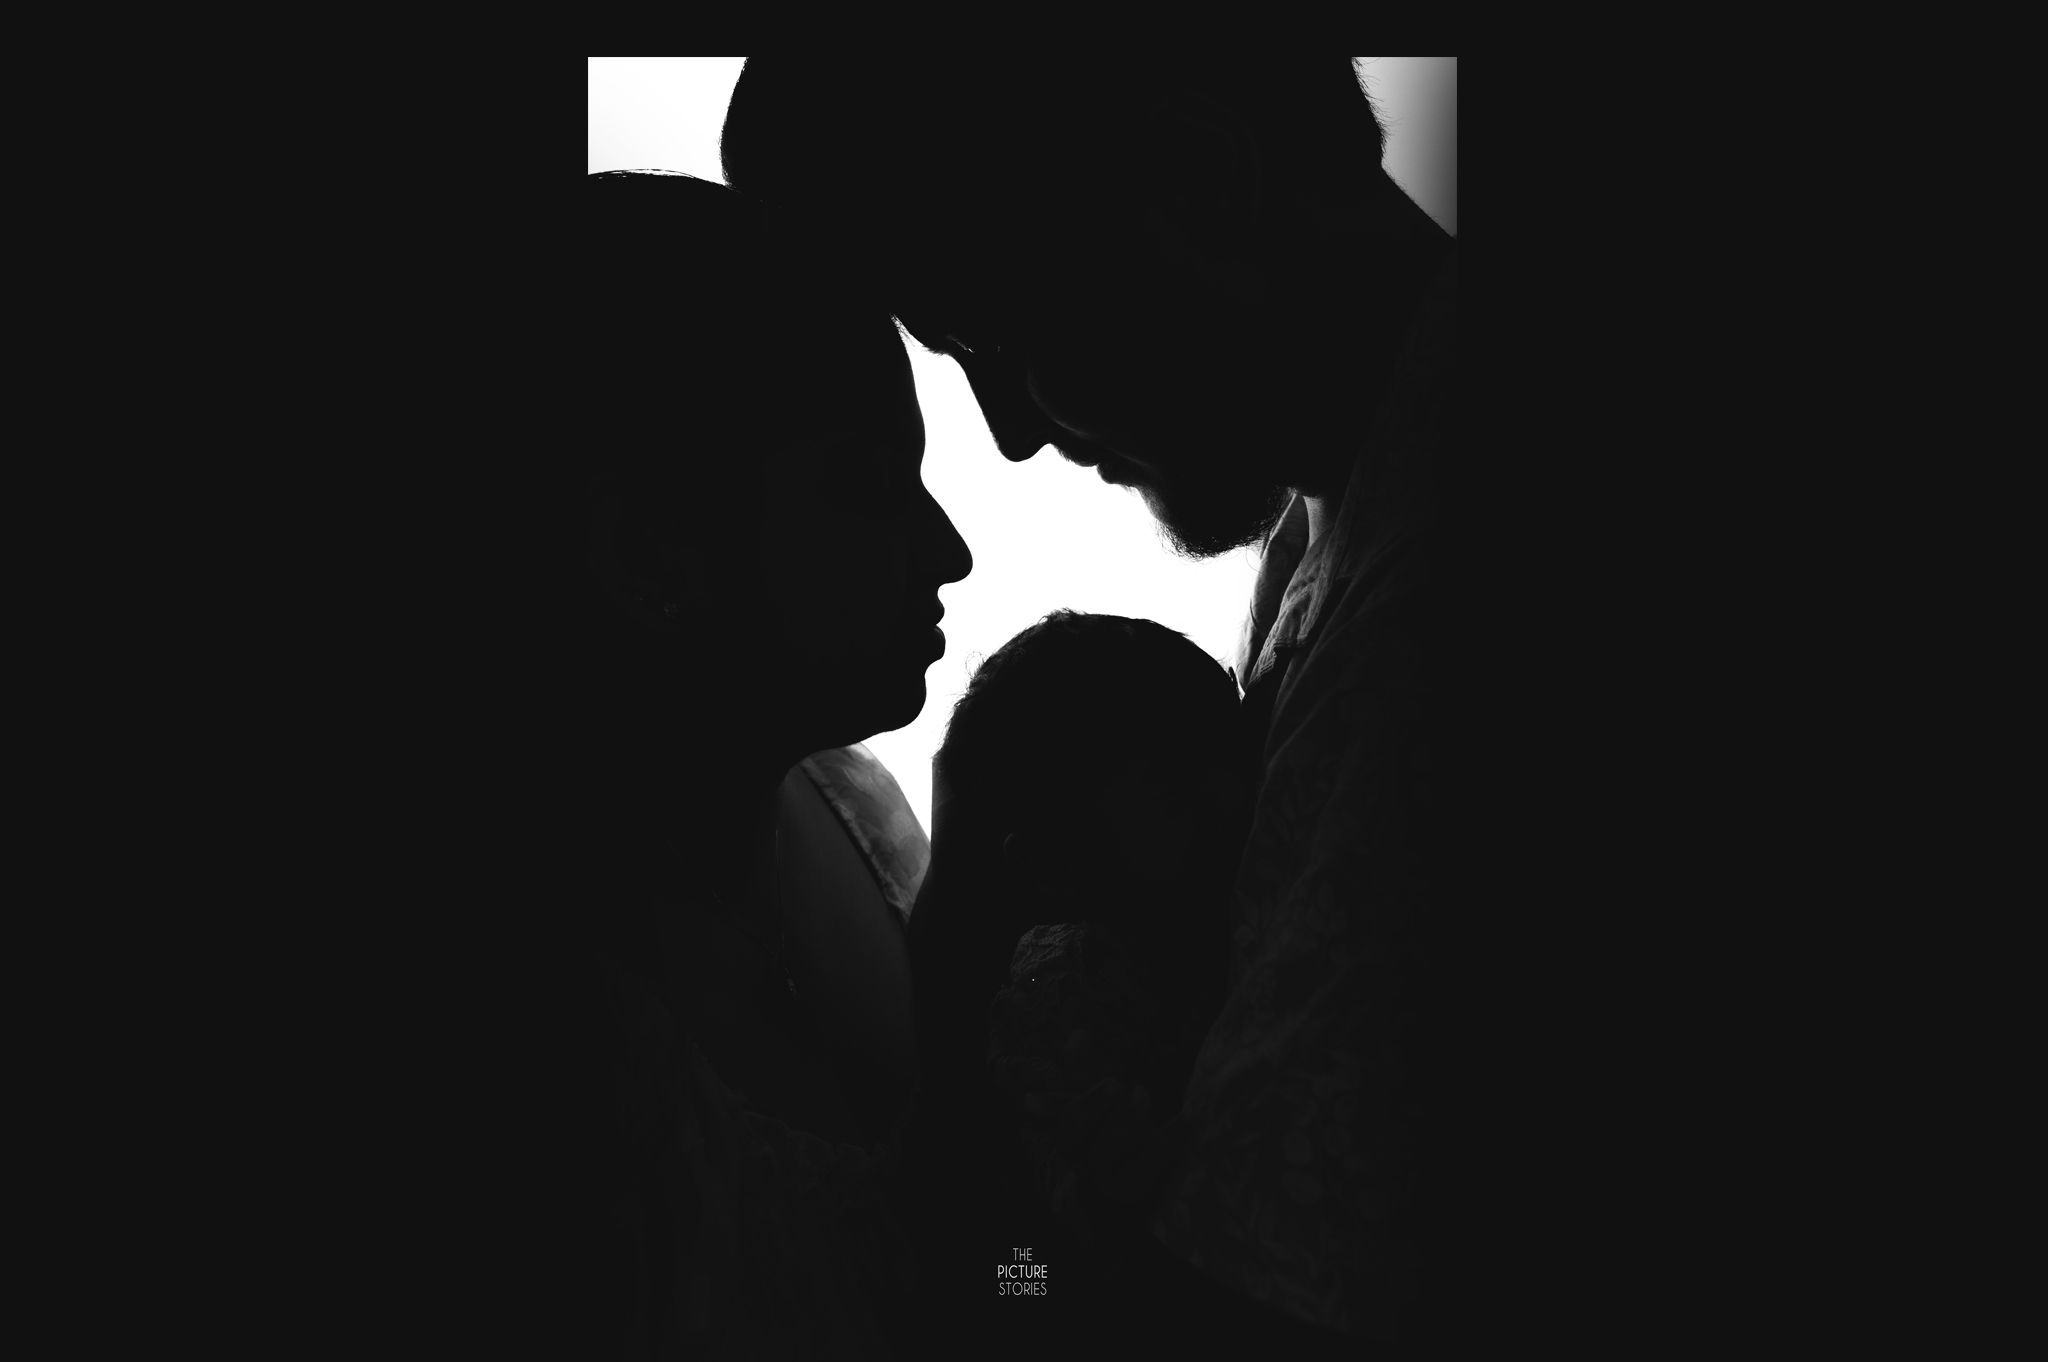
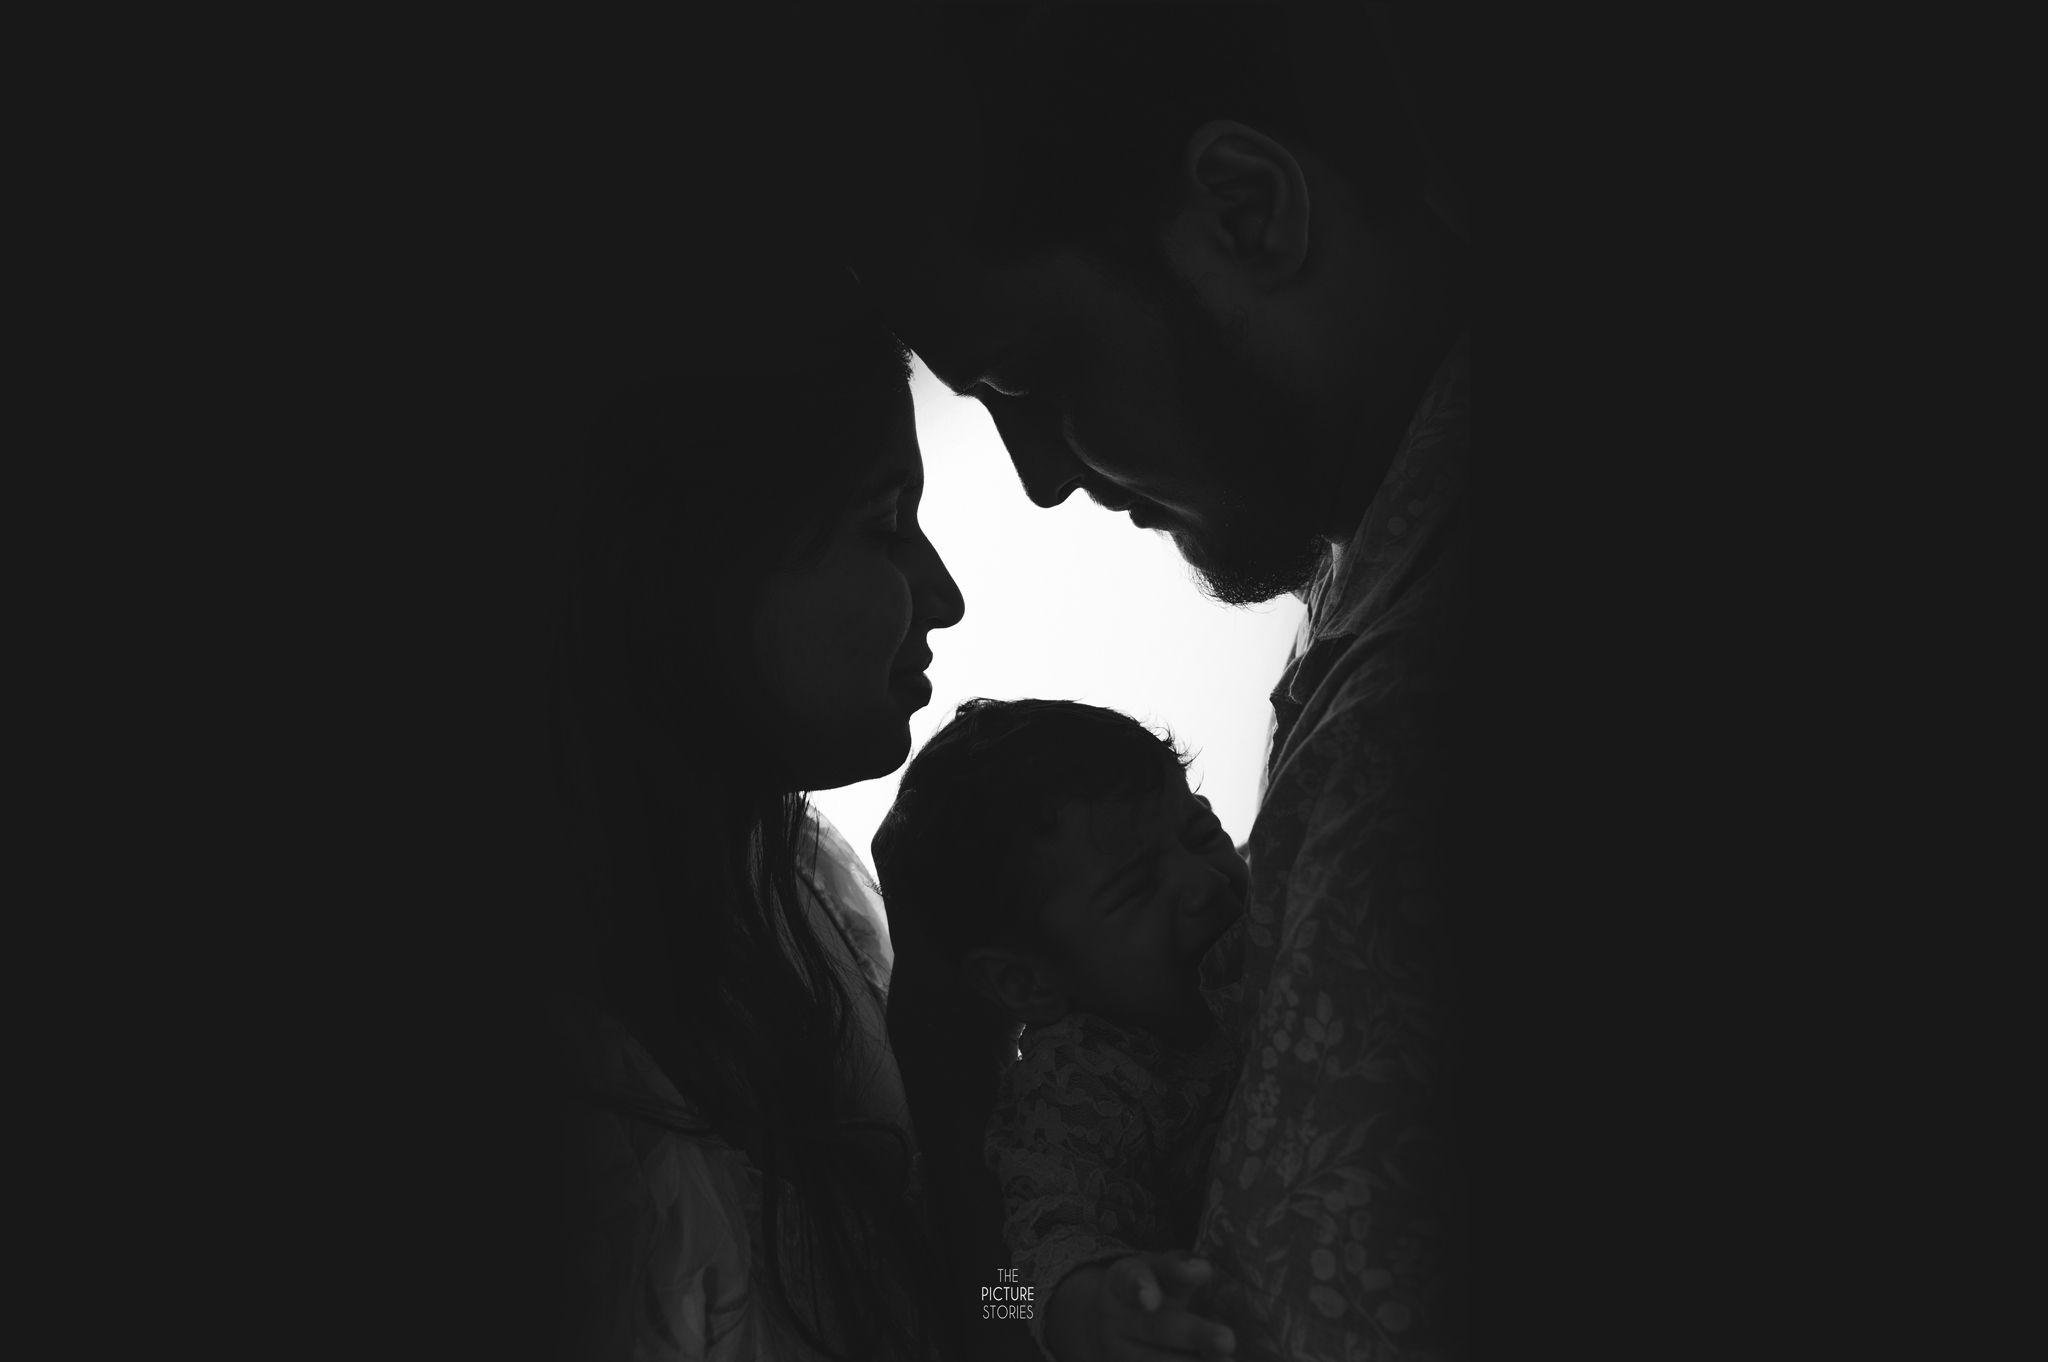
Updated the images and cards

diff --git a/app/page.tsx b/app/page.tsx
@@ -109,21 +109,43 @@ export default function HomePage() {
             <Reveal>
               <SectionHeading
                 eyebrow="Event Details"
-                title={siteConfig.ceremonyType === "Birthday" ? "Celebrating a special day" : "Celebrate this special day with us"}
-                description={siteConfig.ceremonyType === "Birthday" ? "Join us for an afternoon of fun, food, and celebration." : "A graceful day of heartfelt promises, warm embraces, and joyous celebration awaits."}
+                title="Celebrate this special day with us"
+                description="A graceful day of heartfelt promises, warm embraces, and joyous celebration awaits."
               />
             </Reveal>
-            <div className="mt-12 grid gap-5 sm:grid-cols-2 xl:grid-cols-5">
-              {eventCards.map((card, index) => (
-                <Reveal key={card.title} delay={index * 0.06}>
-                  <div className="card-luxury group h-full rounded-[2rem] p-6 transition duration-300 hover:-translate-y-1 hover:shadow-glow">
-                    <div className="mb-5 inline-flex h-12 w-12 items-center justify-center rounded-2xl bg-champagne text-gold transition group-hover:scale-105"><card.icon size={22} /></div>
-                    <h3 className="text-xl">{card.title}</h3>
-                    <p className="mt-3 text-sm">{card.description}</p>
+
+            {/* Changed from grid to flex-wrap with justify-center to center the cards */}
+            <div className="mt-12 flex flex-wrap justify-center gap-6 sm:gap-8">
+              {eventCards.map((card, index) => {
+                const Icon = card.icon;
+
+                // 1. Added 'flex' to the wrapper so it forces the <Reveal> child to stretch vertically
+                return (
+                  <div
+                    key={card.title}
+                    className="w-full sm:w-[calc(50%-1.5rem)] md:w-60 flex-shrink-0 flex"
+                  >
+                    {/* 2. Passed 'w-full' to Reveal so it fills the wrapper width */}
+                    <Reveal delay={index * 0.06} className="w-full">
+
+                      {/* 3. Added 'flex flex-col' so the inner content can distribute space evenly */}
+                      <div className="card-luxury group h-full w-full flex flex-col rounded-[2rem] p-6 transition duration-300 hover:-translate-y-1 hover:shadow-glow">
+                        <div className="mb-5 inline-flex flex-shrink-0 h-12 w-12 items-center justify-center rounded-2xl bg-champagne text-gold transition group-hover:scale-105">
+                          <Icon size={22} />
+                        </div>
+
+                        <h3 className="text-xl flex-shrink-0">{card.title}</h3>
+
+                        {/* 4. Text area grows to keep cards equal height */}
+                        <p className="mt-3 text-sm flex-grow">{card.description}</p>
+                      </div>
+
+                    </Reveal>
                   </div>
-                </Reveal>
-              ))}
+                );
+              })}
             </div>
+
           </div>
         </section>
 

diff --git a/lib/constants.ts b/lib/constants.ts
@@ -47,11 +47,11 @@ export const eventCards = [
     description: `${siteConfig.ceremonyDescription}`,
     icon: CalendarHeart
   },
-  {
-    title: "Reception",
-    description: `${siteConfig.receptionDescription}`,
-    icon: GlassWater
-  },
+  // {
+  //   title: "Reception",
+  //   description: `${siteConfig.receptionDescription}`,
+  //   icon: GlassWater
+  // },
   {
     title: "Venue",
     description: `${siteConfig.venue}`,
